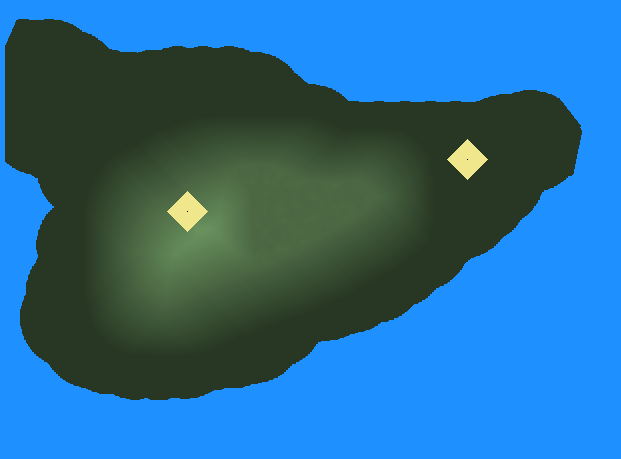
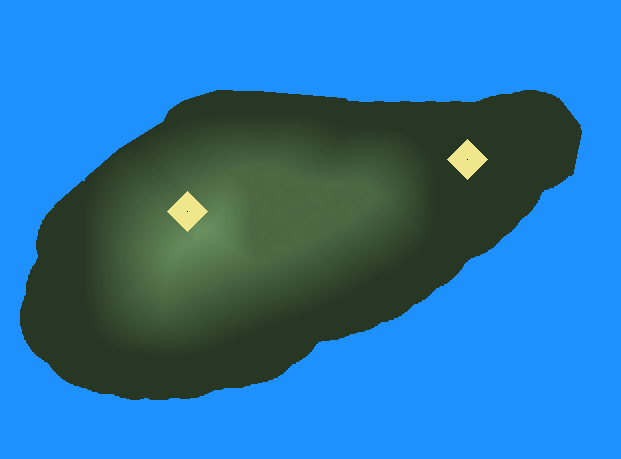
Dropping off food at nest works. Also updated map

Changed region(s): [[0.0, 0.0305, 0.5507, 0.4575]]

diff --git a/src/antworld/client/ClientRandomWalk.java b/src/antworld/client/ClientRandomWalk.java
@@ -11,6 +11,7 @@ import java.util.Random;
 
 import antworld.common.*;
 import antworld.common.AntAction.AntActionType;
+import antworld.server.Ant;
 
 public class ClientRandomWalk
 {
@@ -233,6 +234,10 @@ public class ClientRandomWalk
       AntAction action = chooseAction(commData, ant);
       ant.myAction = action;
     }
+    for(int i = 0; i < commData.foodStockPile.length; i++)
+    {
+      System.out.println(commData.foodStockPile[i]);
+    }
   }
 
   //=============================================================================
@@ -283,23 +288,20 @@ public class ClientRandomWalk
   
   public boolean goHome(AntData ant, AntAction action, int homeAction)
   {
-    //if(ant.gridX < centerX + 10 && ant.gridX > centerX - 10 && ant.gridY < centerY + 10 && ant.gridY > centerY - 10)
-    //{
-    //  action.type = AntActionType.ENTER_NEST;
-    //  return true;
-    //}
-    
-    //if(homeAction == 1 && ant.underground)
-    //{
-    //  action.type = AntActionType.HEAL;
-    //  return true;
-    //}
+    if(homeAction == 1 && ant.gridX < centerX + 10 && ant.gridX > centerX - 10 && ant.gridY < centerY + 10 && ant.gridY > centerY - 10)
+    {
+      action.type = AntActionType.ENTER_NEST;
+      action.type = AntActionType.HEAL;
+      return true;
+    }
     
     if(homeAction == 2 && ant.gridX < centerX + 10 && ant.gridX > centerX - 10 && ant.gridY < centerY + 10 && ant.gridY > centerY - 10)
     {
+      action.type = AntActionType.ENTER_NEST;
       action.type = AntActionType.DROP;
       action.direction = Direction.NORTH;
       action.quantity = ant.carryUnits;
+      System.out.println("Dropped food");
       return true;
     }
     
@@ -356,7 +358,6 @@ public class ClientRandomWalk
 
   private boolean goToFood(AntData ant, AntAction action)
   {
-    
     return false;
   }
 
@@ -456,13 +457,13 @@ public class ClientRandomWalk
 
   private AntAction chooseAction(CommData data, AntData ant)
   {
-    if(data.foodSet.size() > 0)
-    {
-      for (FoodData food : data.foodSet)
-      {
-        System.out.println(food.foodType);
-      }
-    }
+    //if(data.foodSet.size() > 0)
+    //{
+    //  for (FoodData food : data.foodSet)
+    //  {
+    //    System.out.println(food.foodType);
+    //  }
+    //}
     
     AntAction action = new AntAction(AntActionType.STASIS);
     
@@ -476,7 +477,7 @@ public class ClientRandomWalk
 
     if (goHomeIfCarryingOrHurt(ant, action)) return action;
     
-    //if (pickUpWater(ant, action)) return action;
+    if (pickUpWater(ant, action)) return action;
 
     //if (goToEnemyAnt(ant, action)) return action;
 
